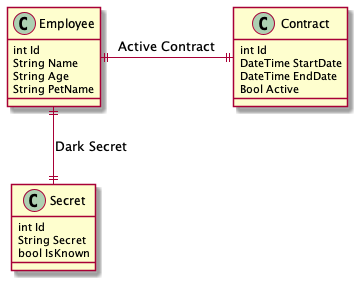
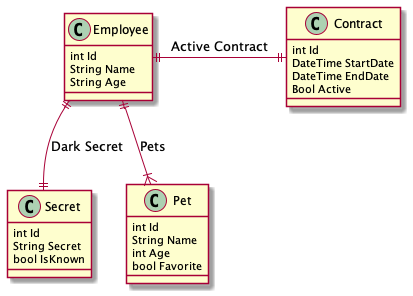
automapper adjustment
wrote the projectto to conditionally add assoications via the employeeprofile

diff --git a/LoadResourceTest/Migrations/20210419174513_Pets.cs b/LoadResourceTest/Migrations/20210419174513_Pets.cs
@@ -1,0 +1,43 @@
+using Microsoft.EntityFrameworkCore.Migrations;
+
+namespace LoadResourceTest.Migrations
+{
+    public partial class Pets : Migration
+    {
+        protected override void Up(MigrationBuilder migrationBuilder)
+        {
+            migrationBuilder.CreateTable(
+                name: "Pets",
+                columns: table => new
+                {
+                    Id = table.Column<int>(type: "int", nullable: false)
+                        .Annotation("SqlServer:Identity", "1, 1"),
+                    Name = table.Column<string>(type: "nvarchar(max)", nullable: true),
+                    Age = table.Column<int>(type: "int", nullable: false),
+                    Favorite = table.Column<bool>(type: "bit", nullable: false),
+                    EmployeeId = table.Column<int>(type: "int", nullable: false)
+                },
+                constraints: table =>
+                {
+                    table.PrimaryKey("PK_Pets", x => x.Id);
+                    table.ForeignKey(
+                        name: "FK_Pets_Employees_EmployeeId",
+                        column: x => x.EmployeeId,
+                        principalTable: "Employees",
+                        principalColumn: "Id",
+                        onDelete: ReferentialAction.Cascade);
+                });
+
+            migrationBuilder.CreateIndex(
+                name: "IX_Pets_EmployeeId",
+                table: "Pets",
+                column: "EmployeeId");
+        }
+
+        protected override void Down(MigrationBuilder migrationBuilder)
+        {
+            migrationBuilder.DropTable(
+                name: "Pets");
+        }
+    }
+}

diff --git a/LoadResourceTest/Controllers/EmployeeController.cs b/LoadResourceTest/Controllers/EmployeeController.cs
@@ -33,12 +33,12 @@ namespace LoadResourceTest.Controllers
     public async Task<EmployeeDto> GetAgent(int id, [FromQuery] Includer includer, CancellationToken cancellationToken = default)
     {
       var includes = includer.GetIncludesParsed();
+      var includeContract = includes.Contains(nameof(EmployeeDto.ActiveContract));
+      var favoritePet = includes.Contains(nameof(EmployeeDto.FavoritePet));
+      var includeSecrets = includes.Contains(nameof(EmployeeDto.Secret));
 
-      var includeContract = includes.Contains(nameof(Employee.ActiveContract));
-      //agent has permission to view this
-      var includeSecrets = includes.Contains(nameof(Employee.Secret));
       var baseQuery = _dbContext.Employees
-      .ProjectTo<EmployeeDto>(_mapper.ConfigurationProvider, new { includeContract });
+      .ProjectTo<EmployeeDto>(_mapper.ConfigurationProvider, new { includeContract, favoritePet, includeSecrets });
 
       return await baseQuery.FirstAsync(x => x.Id == id);
     }

diff --git a/LoadResourceTest/Automapper/EmployeeProfile.cs b/LoadResourceTest/Automapper/EmployeeProfile.cs
@@ -1,3 +1,4 @@
+using System.Linq;
 using AutoMapper;
 using LoadResourceTest.DTOs;
 using LoadResourceTest.Entities;
@@ -9,16 +10,17 @@ namespace LoadResourceTest.Automapper
     public EmployeeProfile()
     {
       bool includeContract = false;
+      bool favoritePet = false;
+      bool includeSecrets = false;
+
       CreateMap<Employee, EmployeeDto>()
-      .ConvertUsing(x => new EmployeeDto
-      {
-        Id = x.Id,
-        Name = x.Name,
-        ActiveContract = includeContract ? new ContractDto()
-        {
-          StartDate = x.ActiveContract.StartDate
-        } : null,
-      });
+        .ForMember(x => x.Secret, opt => opt.MapFrom(x => includeSecrets ? x.Secret : null))
+        .ForMember(x => x.ActiveContract, opt => opt.MapFrom(x => includeContract ? x.ActiveContract : null))
+        .ForMember(x => x.FavoritePet, opt => opt.MapFrom(x =>
+        favoritePet ?
+          x.Pets.First(c => c.Favorite)
+          : null
+        ));
     }
   }
 }

diff --git a/LoadResourceTest/Migrations/20210419174513_Pets.Designer.cs b/LoadResourceTest/Migrations/20210419174513_Pets.Designer.cs
@@ -4,14 +4,16 @@ using LoadResourceTest.Database;
 using Microsoft.EntityFrameworkCore;
 using Microsoft.EntityFrameworkCore.Infrastructure;
 using Microsoft.EntityFrameworkCore.Metadata;
+using Microsoft.EntityFrameworkCore.Migrations;
 using Microsoft.EntityFrameworkCore.Storage.ValueConversion;
 
 namespace LoadResourceTest.Migrations
 {
     [DbContext(typeof(EmployeeContext))]
-    partial class EmployeeContextModelSnapshot : ModelSnapshot
+    [Migration("20210419174513_Pets")]
+    partial class Pets
     {
-        protected override void BuildModel(ModelBuilder modelBuilder)
+        protected override void BuildTargetModel(ModelBuilder modelBuilder)
         {
 #pragma warning disable 612, 618
             modelBuilder

diff --git a/LoadResourceTest/Database/EmployeeContext.cs b/LoadResourceTest/Database/EmployeeContext.cs
@@ -9,6 +9,7 @@ namespace LoadResourceTest.Database
     public DbSet<Employee> Employees { get; set; }
     public DbSet<BiggestSecret> Secrets { get; set; }
     public DbSet<Contract> Contracts { get; set; }
+    public DbSet<Pet> Pets { get; set; }
     public EmployeeContext(DbContextOptions<EmployeeContext> options) : base(options)
     {
     }
@@ -24,6 +25,11 @@ namespace LoadResourceTest.Database
           .HasOne(b => b.Secret)
           .WithOne(i => i.Employee)
           .HasForeignKey<BiggestSecret>(b => b.EmployeeId);
+
+      modelBuilder.Entity<Employee>()
+          .HasMany(b => b.Pets)
+          .WithOne(i => i.Employee)
+          .HasForeignKey(b => b.EmployeeId);
     }
 
 

diff --git a/LoadResourceTest/Program.cs b/LoadResourceTest/Program.cs
@@ -55,6 +55,19 @@ namespace LoadResourceTest
             {
               StartDate = DateTimeOffset.UtcNow.AddYears(-100),
               EndDate = DateTimeOffset.UtcNow.AddYears(1000)
+            },
+            Pets = new List<Pet>()
+            {
+              new Pet{
+                Name = "George",
+                Age = 55,
+                Favorite = false
+              },
+              new Pet{
+                Name = "Barry",
+                Age = 22,
+                Favorite = true
+              }
             }
           };
           context.Add(kevin);

diff --git a/LoadResourceTest/Entities/Pet.cs b/LoadResourceTest/Entities/Pet.cs
@@ -2,13 +2,13 @@ using System.Collections.Generic;
 
 namespace LoadResourceTest.Entities
 {
-  public class Employee
+  public class Pet
   {
     public int Id { get; set; }
     public string Name { get; set; }
     public int Age { get; set; }
-    public Contract ActiveContract { get; set; }
-    public BiggestSecret Secret { get; set; }
-    public ICollection<Pet> Pets { get; set; }
+    public bool Favorite { get; set; }
+    public Employee Employee { get; set; }
+    public int EmployeeId { get; set; }
   }
 }

diff --git a/LoadResourceTest/Startup.cs b/LoadResourceTest/Startup.cs
@@ -36,7 +36,11 @@ namespace LoadResourceTest
       {
         c.SwaggerDoc("v1", new OpenApiInfo { Title = "LoadResourceTest", Version = "v1" });
       });
-      services.AddAutoMapper(typeof(EmployeeProfile));
+      services.AddAutoMapper(
+      typeof(EmployeeProfile),
+      typeof(ContractProfile),
+      typeof(PetProfile),
+      typeof(SecretProfile));
     }
 
     // This method gets called by the runtime. Use this method to configure the HTTP request pipeline.

diff --git a/LoadResourceTest/DTOs/EmployeeDto.cs b/LoadResourceTest/DTOs/EmployeeDto.cs
@@ -11,7 +11,6 @@ namespace LoadResourceTest.DTOs
     public int Age { get; set; }
     public ContractDto ActiveContract { get; set; }
     public SecretDto Secret { get; set; }
-
-    public delegate EmployeeDto Func<Employee, EmployeeDto>(Employee employee, bool contracts);
+    public PetDto FavoritePet { get; set; }
   }
 }

diff --git a/LoadResourceTest/Automapper/ContractProfile.cs b/LoadResourceTest/Automapper/ContractProfile.cs
@@ -1,0 +1,15 @@
+using System.Linq;
+using AutoMapper;
+using LoadResourceTest.DTOs;
+using LoadResourceTest.Entities;
+
+namespace LoadResourceTest.Automapper
+{
+  public class ContractProfile : Profile
+  {
+    public ContractProfile()
+    {
+      CreateMap<Contract, ContractDto>();
+    }
+  }
+}

diff --git a/LoadResourceTest/Automapper/SecretProfile.cs b/LoadResourceTest/Automapper/SecretProfile.cs
@@ -1,0 +1,15 @@
+using System.Linq;
+using AutoMapper;
+using LoadResourceTest.DTOs;
+using LoadResourceTest.Entities;
+
+namespace LoadResourceTest.Automapper
+{
+  public class SecretProfile : Profile
+  {
+    public SecretProfile()
+    {
+      CreateMap<BiggestSecret, SecretDto>();
+    }
+  }
+}

diff --git a/LoadResourceTest/Automapper/PetProfile.cs b/LoadResourceTest/Automapper/PetProfile.cs
@@ -1,0 +1,15 @@
+using System.Linq;
+using AutoMapper;
+using LoadResourceTest.DTOs;
+using LoadResourceTest.Entities;
+
+namespace LoadResourceTest.Automapper
+{
+  public class PetProfile : Profile
+  {
+    public PetProfile()
+    {
+      CreateMap<Pet, PetDto>();
+    }
+  }
+}
